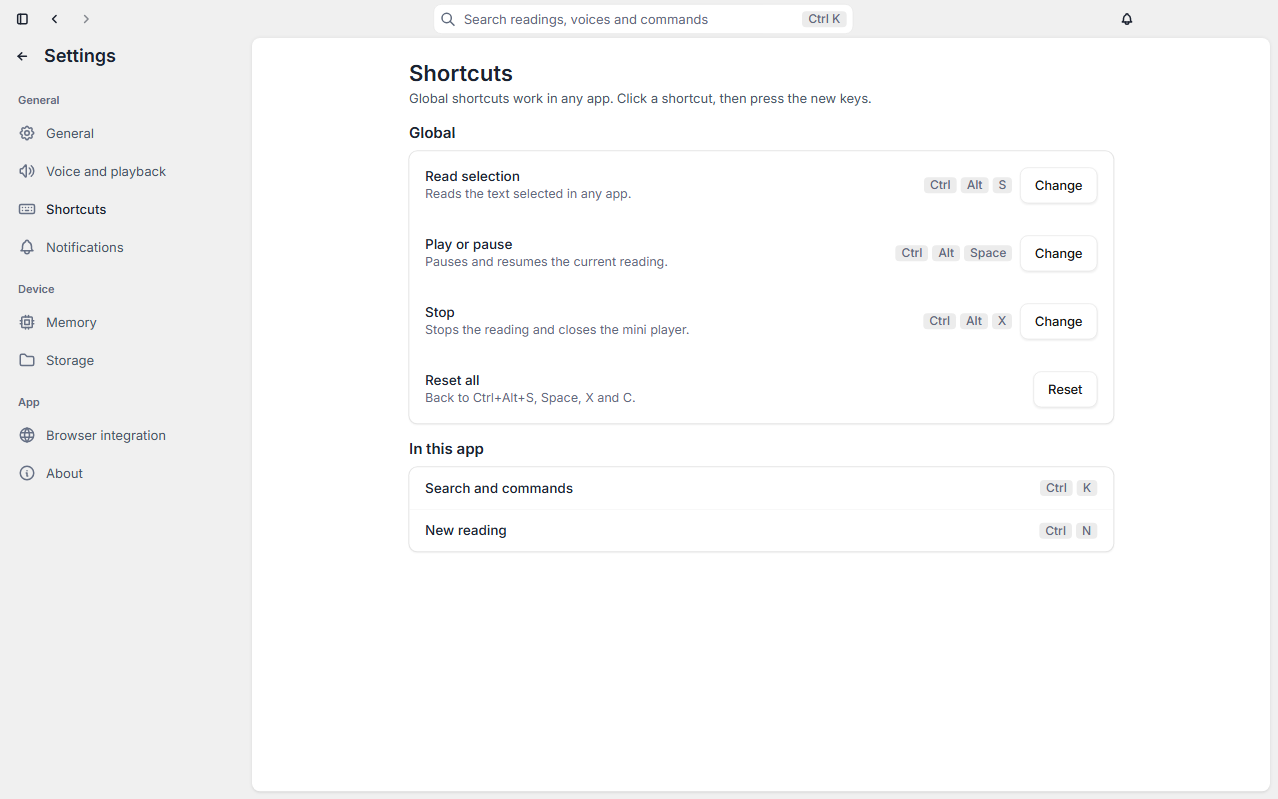
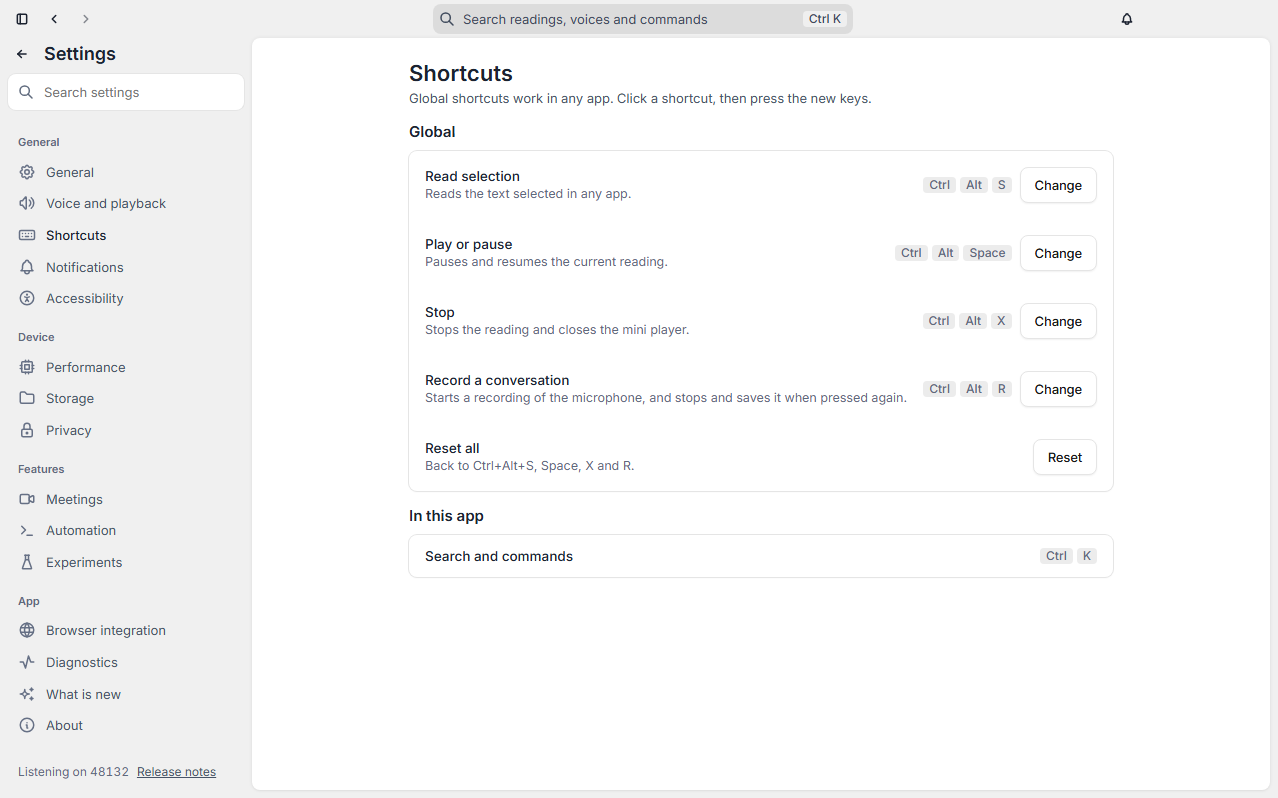
docs: describe voice chat, dictation and the other new features; refresh screenshots

diff --git a/README.md b/README.md
@@ -4,17 +4,33 @@
 
 <h1 align="center">Speak Kit</h1>
 
-<p align="center">A private, local text-to-speech reader for Chrome and desktop.</p>
+<p align="center">Read pages aloud, dictate into any app, or talk to a page. For Chrome and desktop.</p>
 
 <p align="center">
   <a href="https://github.com/NourEldinShobier/speak-kit/actions/workflows/ci.yml"><img src="https://github.com/NourEldinShobier/speak-kit/actions/workflows/ci.yml/badge.svg" alt="CI"></a>
 </p>
 
-Select text in Chrome, press a key, and a natural voice reads it aloud while the sentence and word being spoken are highlighted. The voice runs on your computer: no account, no cloud, no tracking.
+Speak Kit is a set of speaking tools for Chrome and your desktop: have pages read to you, dictate into any app, and talk to a page out loud.
 
-- **Chrome extension**: reads selections and whole pages, with a floating player, reader view and a side panel queue.
-- **Desktop app**: runs the local voice server, adds global shortcuts, a mini player, a library for PDF, EPUB, DOCX, Markdown and text files, and MP3 or WAV export.
-- **Voices**: 28 Kokoro voices, running on the CPU of any computer.
+<p align="center">
+  <img src="docs/screenshots/voice-chat.png" alt="A news article in Chrome with the voice chat pill at the top: a mute button, a dot grid showing the answer being spoken, and a stop button" width="720">
+</p>
+
+## Features
+
+**Voice chat.** Press the Talk button on a page, or Alt+Shift+V, and ask about it out loud. A small pill at the top of the page shows when it is listening, thinking or speaking. It uses OpenAI's Realtime API with your own key, and on request it can look at your screen.
+
+**Read aloud.** Select text in Chrome, press a key, and a natural voice reads it while the current sentence and word are highlighted. The Chrome extension reads selections and whole pages, with a floating player, a reader view and a side panel queue. 28 Kokoro voices run on the CPU of any computer.
+
+**Dictation (Windows).** Hold Right Ctrl in any app, speak, release, and the text is pasted where your cursor is. English filler words are removed, your own replacements apply, each app can have its own mode, and past dictations are kept in a history. Speech recognition runs on your computer with Whisper or Parakeet models.
+
+**Library.** The desktop app opens PDF, EPUB, DOCX, Markdown and text files, reads them with word highlighting, and exports MP3, WAV and captions (SRT, WebVTT).
+
+**Transcripts.** Turn audio files and recorded meetings into searchable text on your computer.
+
+**Command line and MCP.** `speakkit` reads text aloud, transcribes files and changes settings from a terminal, and an MCP server lets other tools use it.
+
+**Everywhere.** Global shortcuts, a mini player, a command palette, and an interface in English, Spanish, German, French and Arabic.
 
 <p align="center">
   <img src="docs/screenshots/page-highlight.png" alt="A web page being read aloud with the current sentence and word highlighted, and the floating player at the bottom" width="720">
@@ -34,18 +50,22 @@ Select text in Chrome, press a key, and a natural voice reads it aloud while the
 Download from the [latest release](https://github.com/NourEldinShobier/speak-kit/releases/latest):
 
 - **Windows:** `Speak-Kit-Setup-<version>.exe` (installer, updates itself) or `Speak-Kit-<version>-portable.exe`. The builds are not code-signed, so SmartScreen shows "unknown publisher" the first time: choose **More info**, then **Run anyway**.
-- **macOS:** the `.dmg` for your chip (Apple Silicon or Intel). The app is not signed: right-click it in Applications, choose **Open**, then **Open** again. It is built for macOS but tested on Windows only.
+- **macOS:** the `.dmg` for your chip (Apple Silicon or Intel). The app is not signed: right-click it in Applications, choose **Open**, then **Open** again. It is built for macOS but tested on Windows only, and dictation is untested on a Mac.
 - **Chrome extension:** unzip `speakkit-extension-<version>.zip`, open `chrome://extensions`, turn on **Developer mode**, choose **Load unpacked** and pick the folder.
 
 On first start the app downloads the voice model (about 180 MB) and walks you through setup. To connect the extension, copy the token in the app (Browser) and paste it in the extension under Options, General, Pairing token.
 
-## Command line and AI apps
+Dictation downloads a speech model when you first turn it on (about 550 MB for the default, Whisper large-v3 turbo). It needs a graphics card; on a computer without one, choose the smaller Parakeet model, which handles English and German.
 
-In the desktop app, Settings, Automation puts the `speakkit` command on your PATH (`speakkit speak "Hello"`, `speakkit speak notes.md --out notes.mp3`, `speakkit status`, `speakkit stop`). `speakkit mcp` is an MCP server for AI apps, and `speakkit skill install` teaches an AI agent the commands. All of it talks to the app on your own computer.
+## Voice chat
+
+Voice chat needs an OpenAI API key. Add it in the app under Voice chat. The key is stored encrypted by your operating system and is never given to the extension; the extension receives a short-lived session secret from the app for each conversation. Start a conversation from the Talk button on a page or with Alt+Shift+V.
 
 ## Privacy
 
-Text is turned into speech on your computer. The local server listens on `127.0.0.1` only and needs a token. The only network traffic is the one-time model download and the update check against GitHub Releases, which you can turn off in Settings, About. No analytics, no accounts.
+Reading aloud, dictation and transcripts run on your computer. The local server listens on `127.0.0.1` only and needs a token. Network traffic is the model downloads and the update check against GitHub Releases, which you can turn off in Settings, About. No analytics, no accounts.
+
+Voice chat is the exception, and only while a conversation is open: your microphone audio, the text of the page and its address are sent to OpenAI and billed to your key. Screen access is off until you allow it for a window or the whole screen.
 
 ## Contributing
 
